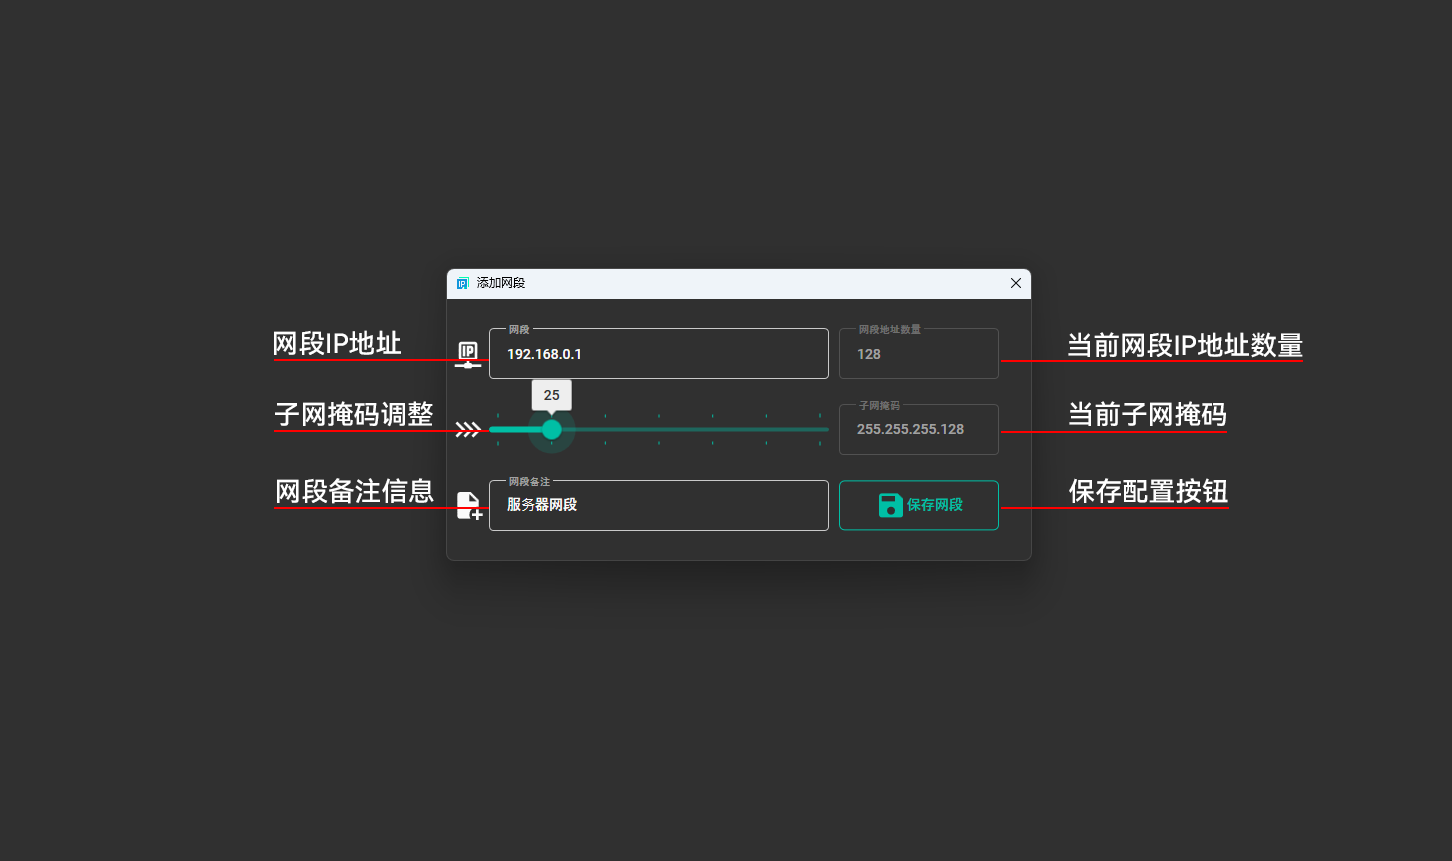
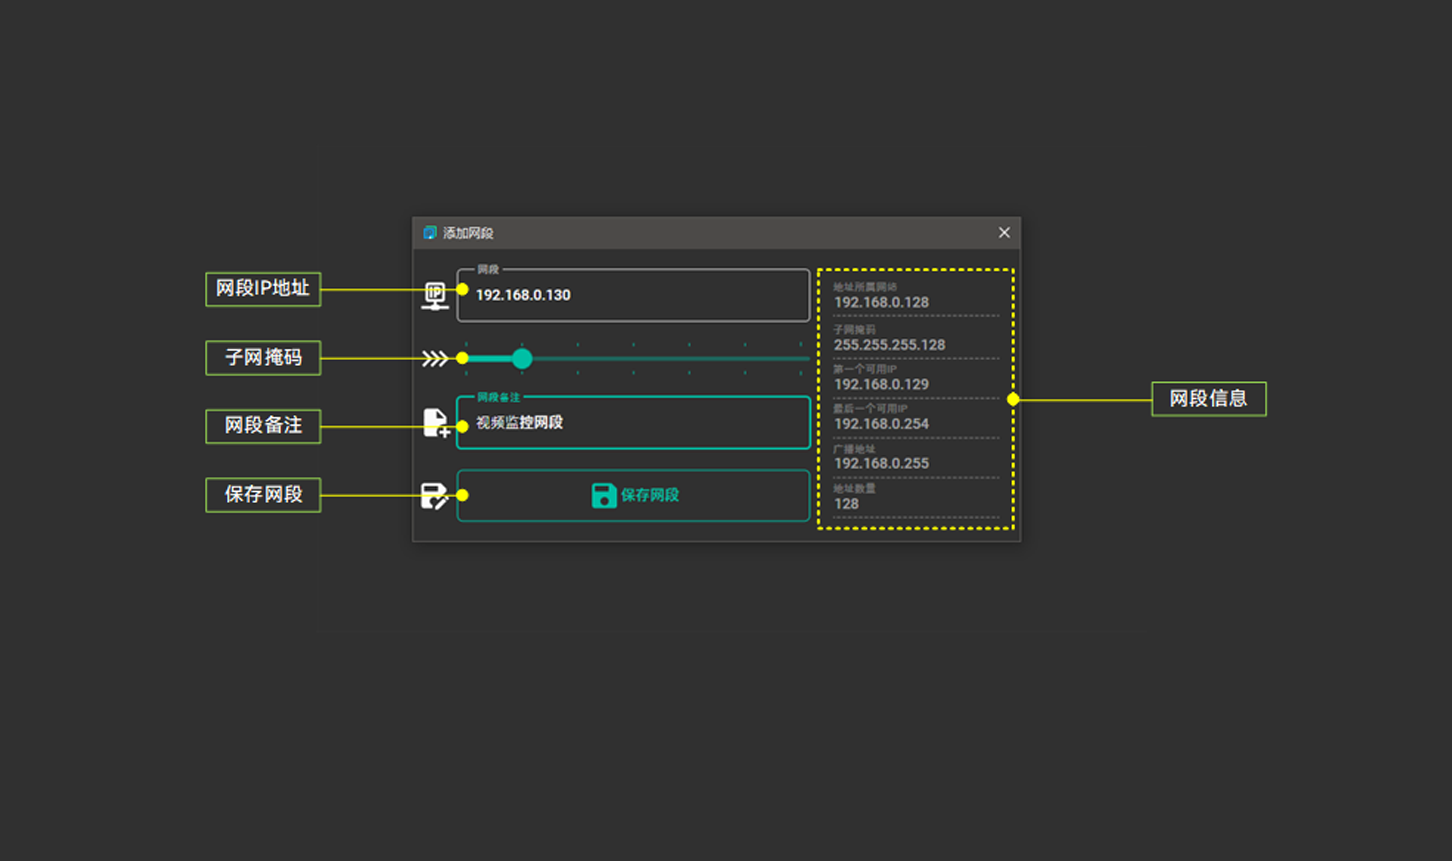
完善帮助内容

Changed region(s): [[0.124, 0.2416, 0.8988, 0.6341]]

diff --git a/AboutWindow.xaml b/AboutWindow.xaml
@@ -118,7 +118,7 @@
                           Text="程序UI简介" />
 
                         <Image
-                            Width="1150"
+                            Width="1350"
                             Height="690"
                             Source="Resources/UI.png"
                             Stretch="Uniform" />
@@ -219,6 +219,38 @@
                             Width="1150"
                             Height="690"
                             Source="Resources/DATAHELP.png"
+                            Stretch="Uniform" />
+
+
+
+                    </StackPanel>
+                </TabItem>
+                <TabItem>
+                    <TabItem.Header>
+                        <StackPanel
+                            Width="auto"
+                            Height="auto">
+                            <materialDesign:PackIcon
+                                Width="32"
+                                Height="32"
+                                HorizontalAlignment="Center"
+                                Kind="CheckBoxesOutline" />
+                            <TextBlock
+                                HorizontalAlignment="Center"
+                                Text="分配帮助" />
+                        </StackPanel>
+                    </TabItem.Header>
+                    <StackPanel
+                        Margin="16">
+                        <TextBlock
+                            Margin="0,0,0,8"
+                            Style="{StaticResource MaterialDesignHeadline5TextBlock}"
+                            Text="数据导入帮助" />
+
+                        <Image
+                            Width="1150"
+                            Height="690"
+                            Source="Resources/ALLOCATION.png"
                             Stretch="Uniform" />
 
 

diff --git a/ImportWindow.xaml b/ImportWindow.xaml
@@ -68,7 +68,7 @@
                     Height="50"
                     Width="160"
                     Style="{StaticResource MaterialDesignOutlinedButton}"
-                    ToolTip="导出模板" 
+                    ToolTip="导出数据模板" 
                     Click="ExportButton_OnClick"
                     materialDesign:ButtonAssist.CornerRadius="5"
                 >
@@ -81,7 +81,7 @@
                         />
                         <TextBlock
                             VerticalAlignment="Center"
-                        >导出</TextBlock>
+                        >导出模板</TextBlock>
                     </StackPanel>
                 </Button>
 
@@ -143,7 +143,7 @@
                             />
                         <TextBlock
                                 VerticalAlignment="Center"
-                            >浏览</TextBlock>
+                            >浏览文件</TextBlock>
                         </StackPanel>
                     </Button>
 
@@ -200,7 +200,7 @@
                         />
                         <TextBlock
                             VerticalAlignment="Center"
-                        >导入</TextBlock>
+                        >导入数据</TextBlock>
                     </StackPanel>
                 </Button>
 
